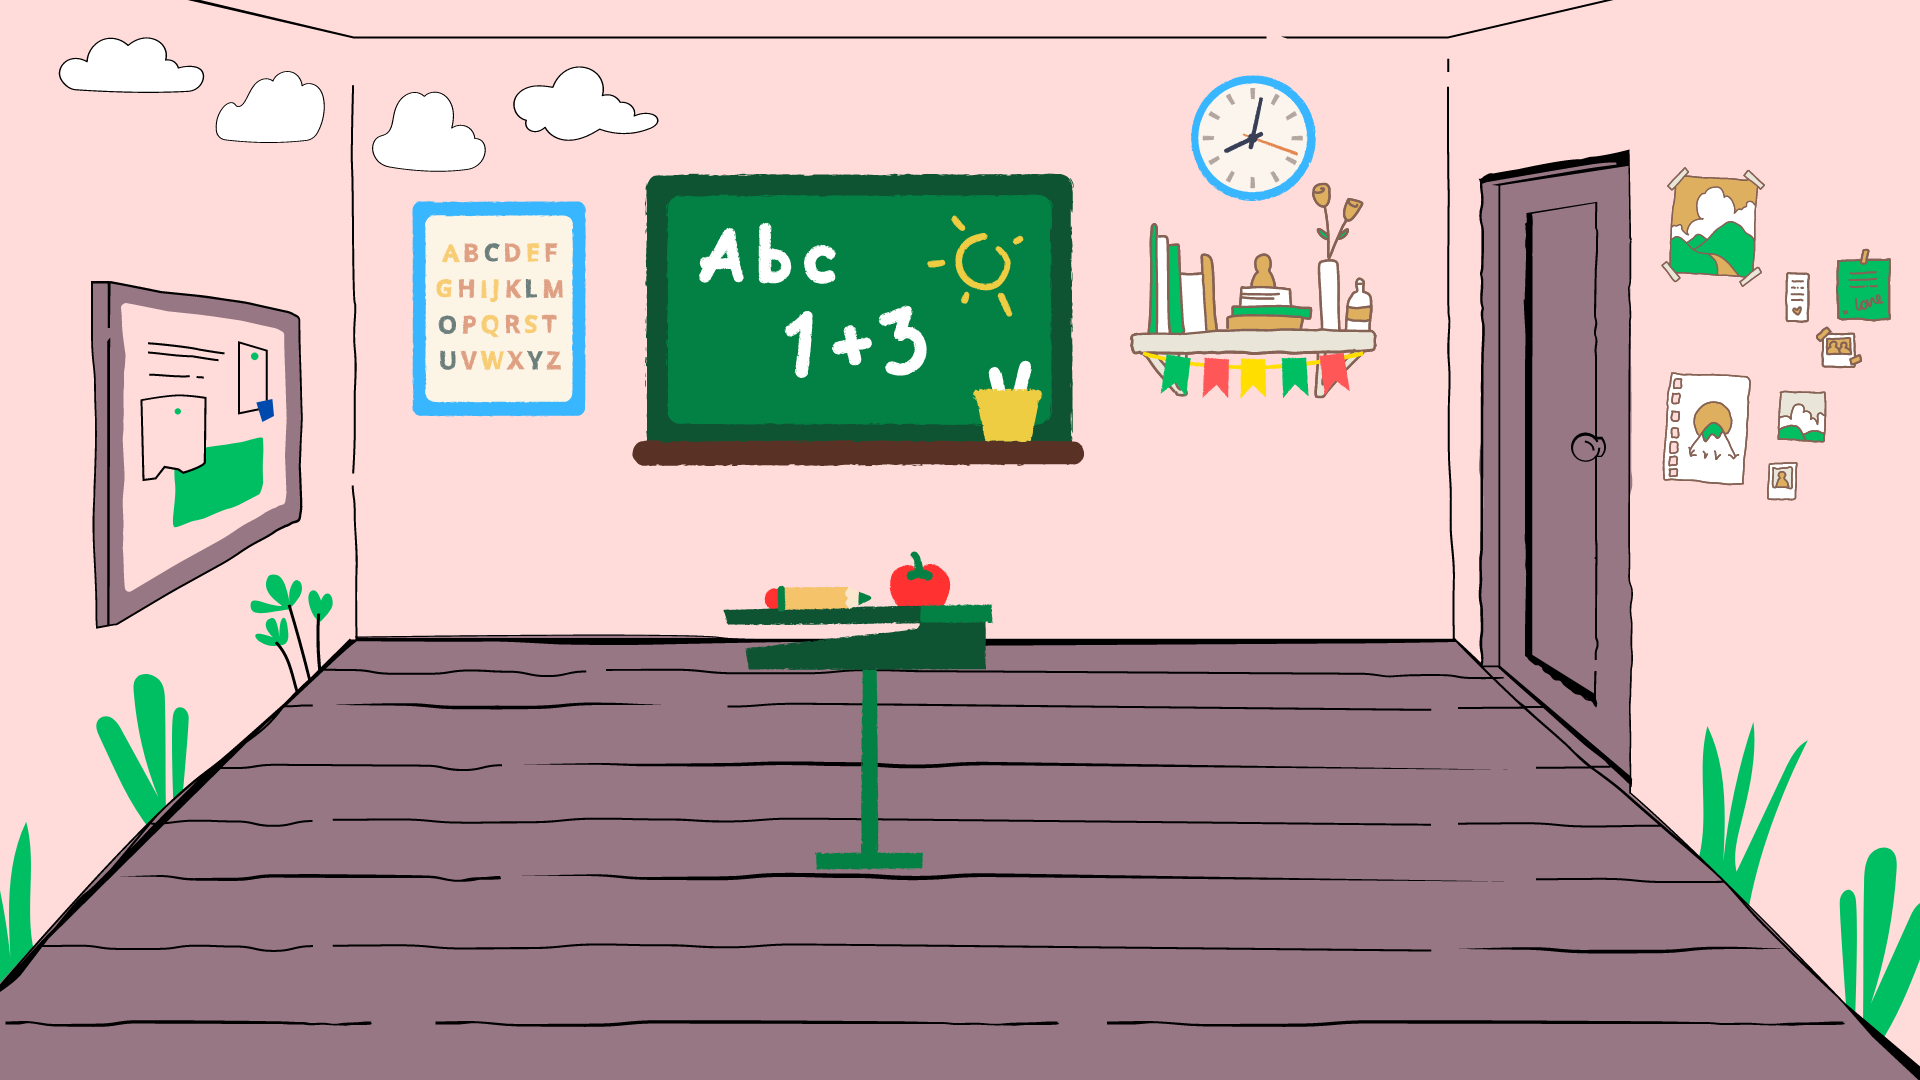
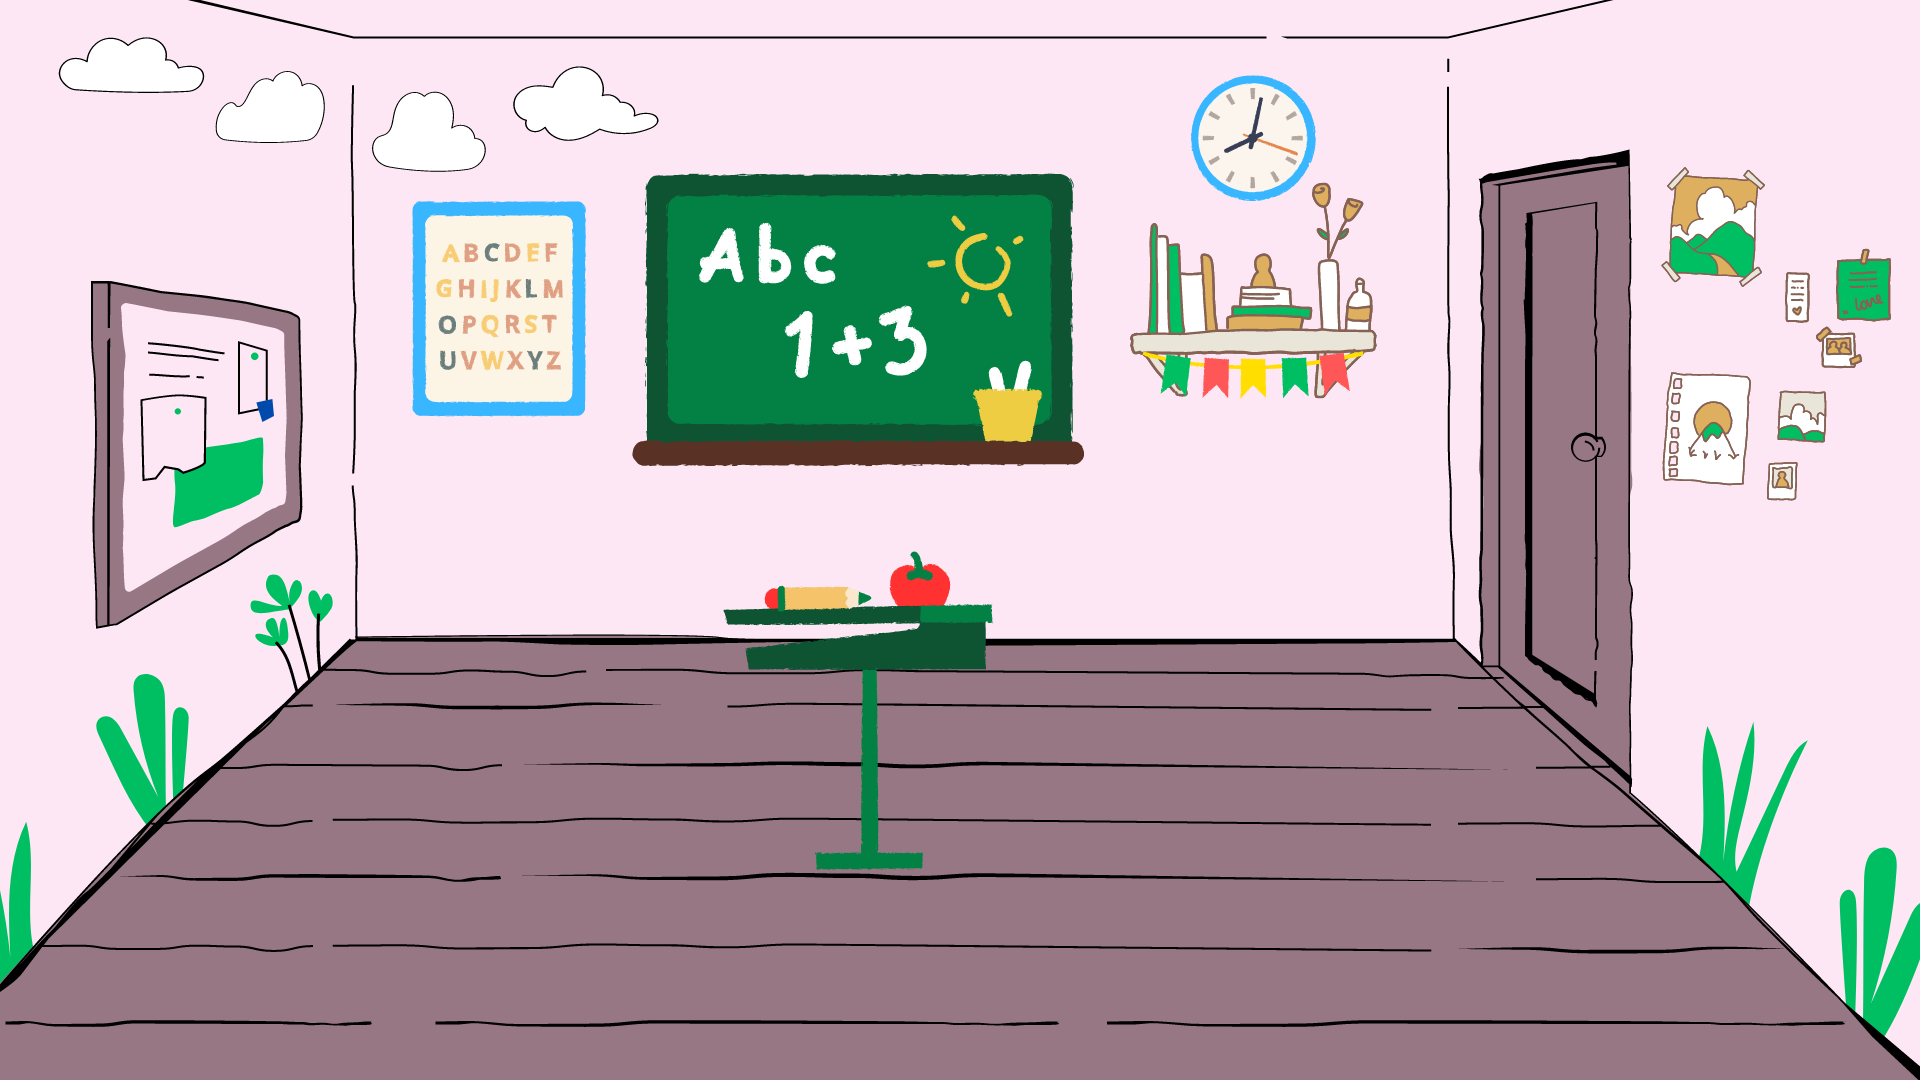
style: updated theme with minor cleanups

diff --git a/src/pages/About.js b/src/pages/About.js
@@ -2,10 +2,10 @@ import React from "react";
 
 const About = () => {
   return (
-    <div className="w-full bg-wood pt-56 md:pt-40 pb-4 px-4 md:px-24">
-      <div className="flex flex-col bg-greyPink rounded-xl p-4 shadow-xl gap-y-4">
+    <div className="w-full pt-56 md:pt-40 pb-4 px-4 md:px-24">
+      <div className="flex flex-col rounded-xl p-4 shadow-xl gap-y-4">
         <div className="">
-          <h2 className="text-sm md:text-[1.8rem] text-darkPink font-bold pb-4 md:leading-8">
+          <h2 className="text-sm md:text-[1.8rem] font-bold pb-4 md:leading-8">
             About me
           </h2>
           <p className="text-xs md:text-lg">
@@ -21,7 +21,7 @@ const About = () => {
         </div>
 
         <div className="">
-          <h2 className="text-sm md:text-[1.8rem] text-darkPink font-bold pb-4 md:leading-8">
+          <h2 className="text-sm md:text-[1.8rem] font-bold pb-4 md:leading-8">
             My Five Pillars
           </h2>
           <ul className="text-xs md:text-lg">
@@ -38,7 +38,7 @@ const About = () => {
         </div>
 
         <div className="">
-          <h2 className="text-sm md:text-[1.8rem] text-darkPink font-bold pb-4 md:leading-8">
+          <h2 className="text-sm md:text-[1.8rem] font-bold pb-4 md:leading-8">
             My Classroom
           </h2>
           <ul className="text-xs md:text-lg">

diff --git a/src/pages/Home.js b/src/pages/Home.js
@@ -1,6 +1,5 @@
 import React from "react";
 import Banner from "../components/Banner";
-import About from "../pages/About";
 
 const Home = () => {
   window.addEventListener("scroll", () => {
@@ -11,11 +10,11 @@ const Home = () => {
     let child4 = document.getElementById("child4");
     let value = window.scrollY;
 
-    child1.style.left = value * 0.2 + "px";
-    teacher.style.left = value * 0.2 + "px";
-    child2.style.left = value * -0.2 + "px";
-    child3.style.left = value * -0.2 + "px";
-    child4.style.left = value * -0.2 + "px";
+    child1.style.left = value * 0.3 + "px";
+    teacher.style.left = value * 0.3 + "px";
+    child2.style.left = value * -0.3 + "px";
+    child3.style.left = value * -0.3 + "px";
+    child4.style.left = value * -0.3 + "px";
   });
 
   return (
@@ -59,7 +58,6 @@ const Home = () => {
           id="child4"
         />
       </section>
-      <About />
     </div>
   );
 };

diff --git a/src/components/Banner.js b/src/components/Banner.js
@@ -6,10 +6,10 @@ const Banner = () => {
     <section className="w-full flex flex-col items-center bg-fill pt-28 pb-8">
       <AnimatedText
         text={"Welcome to Chevon's Tutoring Services!"}
-        className="text-pink pb-8 text-center"
+        className="text-darkPurple pb-8 text-center"
       />
       <div className="w-2/3 bg-white rounded-2xl shadow-xl py-8 px-12 text-center">
-        <p className="text-sm md:text-[1.8rem] text-darkPink font-bold pb-4 md:leading-8">
+        <p className="text-lg md:text-[1.8rem] text-purple font-bold pb-4 leading-2 md:leading-8">
           Are you ready to embark on an exciting journey of learning and
           discovery?
         </p>

diff --git a/src/App.js b/src/App.js
@@ -3,7 +3,7 @@ import { Route, Routes } from "react-router-dom";
 import Header from "./components/Header";
 import Footer from "./components/Footer";
 import Home from "./pages/Home";
-import Skills from "./pages/Skills";
+import About from "./pages/About";
 import Contact from "./pages/Contact";
 
 const App = () => {
@@ -14,7 +14,7 @@ const App = () => {
       <main>
         <Routes>
           <Route path="/" element={<Home />} />
-          <Route path="/skills" element={<Skills />} />
+          <Route path="/about" element={<About />} />
           <Route path="/contact" element={<Contact />} />
         </Routes>
       </main>

diff --git a/tailwind.config.js b/tailwind.config.js
@@ -7,14 +7,12 @@ module.exports = {
       bounce: "bounce 1s infinite",
     },
     colors: {
-      fill: "#FFDBDA",
+      fill: "#fde7f4",
       white: "#f9f9f9",
       black: "#010002",
-      pink: "#EF0F98",
-      darkPink: "#DB7F8E",
       wood: "#967783",
-      grey: "#9DA3A4",
-      greyPink: "#D5C5C8",
+      darkPurple: "#8F6F8E",
+      purple: "#CD9FCC",
     },
   },
   plugins: [],

diff --git a/src/components/Header.js b/src/components/Header.js
@@ -22,10 +22,10 @@ const Header = () => {
             Home
           </Link>
           <Link
-            to="/skills"
+            to="/about"
             className="hover:bg-white hover:shadow-xl hover:text-pink rounded-xl p-2"
           >
-            Skills
+            About
           </Link>
           <Link
             to="/contact"
